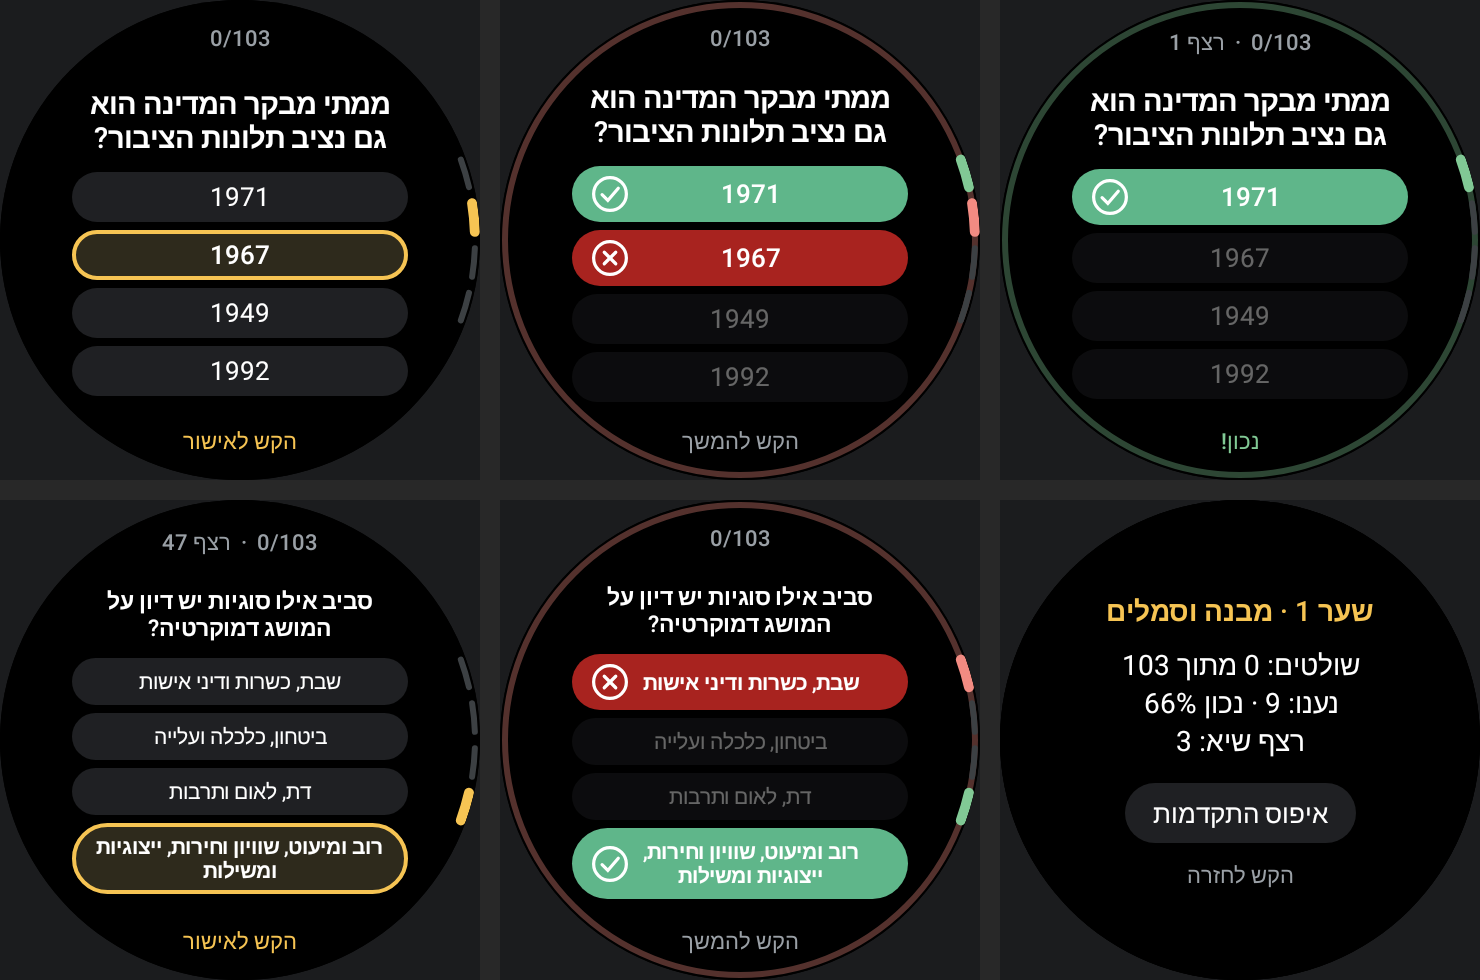
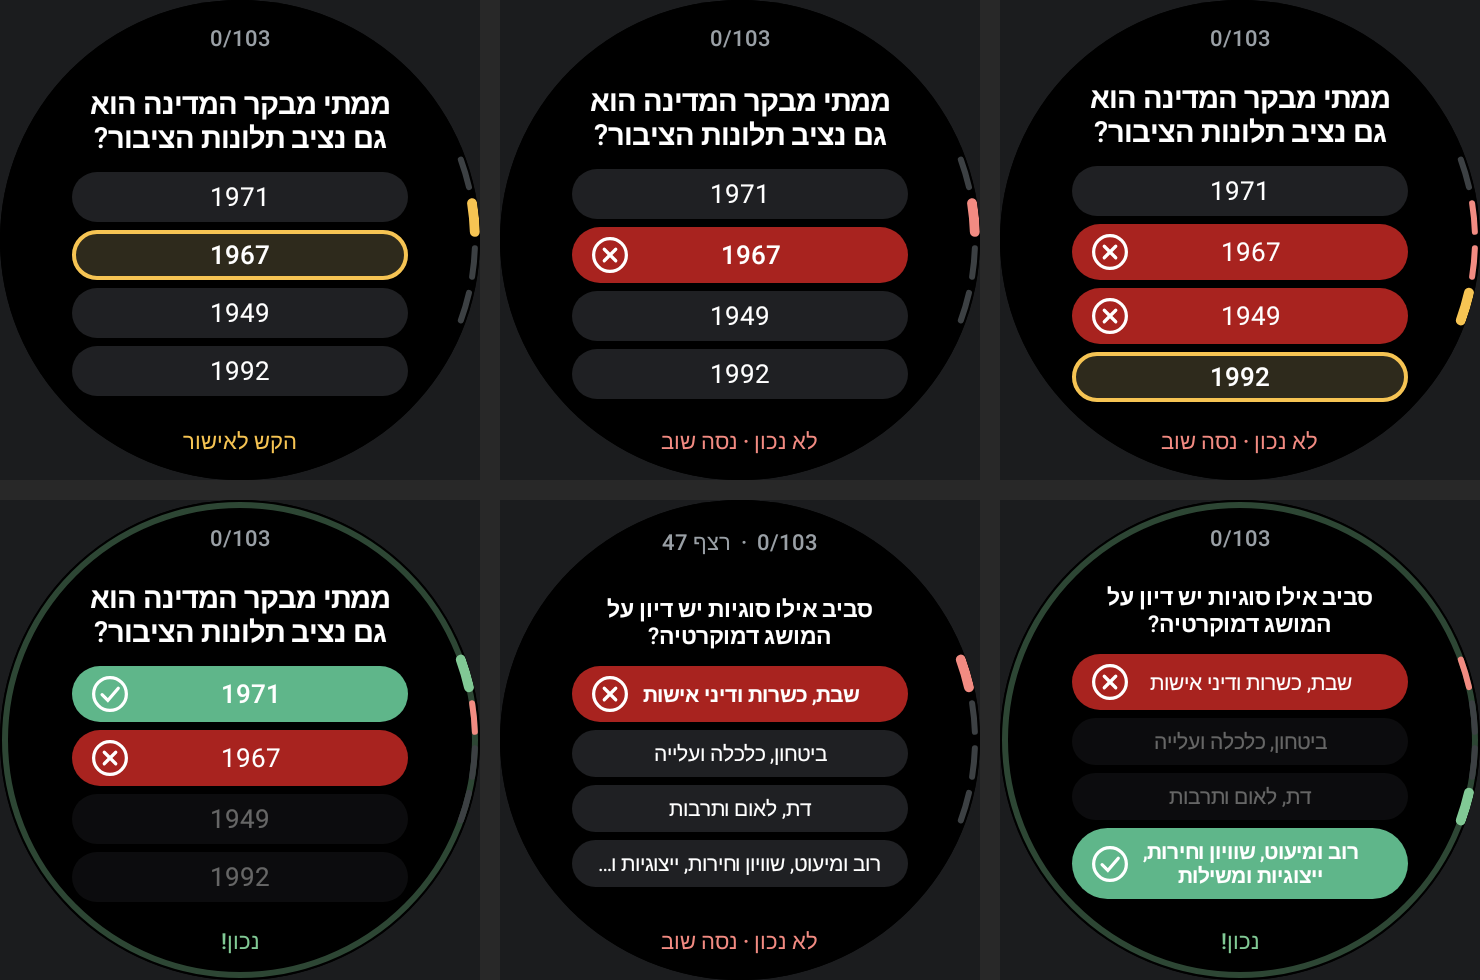
Quiz: keep the question until the right answer is picked
A wrong pick turns red and stays marked; the right answer is not revealed and
the bezel skips wrong picks. Only the right answer passes the question, and it
counts as known only when it was the first pick.

Claude-Session: https://claude.ai/code/session_012hYj7VXLh8Pt1nbMfQKyeY

diff --git a/quiz/src/main/java/com/albustech/mikraot/QuizScreen.kt b/quiz/src/main/java/com/albustech/mikraot/QuizScreen.kt
@@ -81,9 +81,9 @@ private const val AUTO_NEXT_MS = 900L
  *  - the right edge: four notches showing which answer the bezel is on;
  *  - the bottom cap: what to do next.
  *
- * Bezel: move between answers (a click each). Tap: answer with the lit one. After a wrong
- * answer the right one is shown until the next bezel click or tap; a right answer moves on
- * by itself. Long press: stats.
+ * Bezel: move between answers (a click each), skipping wrong picks. Tap: answer with the lit
+ * one. A wrong pick turns red and you pick again; only the right answer passes the question,
+ * and then it moves on by itself. Long press: stats.
  */
 @Composable
 fun QuizScreen(state: QuizState, onInteract: () -> Unit = {}) {
@@ -102,7 +102,7 @@ fun QuizScreen(state: QuizState, onInteract: () -> Unit = {}) {
             if (state.lastCorrect) HapticFeedbackConstants.CONFIRM else HapticFeedbackConstants.REJECT,
         )
         flash.snapTo(1f)
-        flash.animateTo(0.35f, tween(600))
+        flash.animateTo(if (state.lastCorrect) 0.35f else 0f, tween(600))
         if (state.lastCorrect) {
             delay(AUTO_NEXT_MS - 600)
             if (state.answered) state.next()
@@ -133,9 +133,9 @@ fun QuizScreen(state: QuizState, onInteract: () -> Unit = {}) {
         ) {
             val d = minOf(maxWidth, maxHeight)
             val verdict = when {
-                !state.answered -> null
-                state.lastCorrect -> RightRim
-                else -> WrongRim
+                state.answered -> RightRim
+                state.wrong.isNotEmpty() -> WrongRim
+                else -> null
             }
             Rim(d, state, verdict, flash.value)
             Header(d, state)
@@ -162,7 +162,7 @@ private fun Rim(d: Dp, state: QuizState, verdict: Color?, flash: Float) {
             val center = (slot - 1.5f) * NOTCH_STEP
             val color = when {
                 state.answered && state.isCorrect(slot) -> RightRim
-                state.answered && state.chosen == slot -> WrongRim
+                slot in state.wrong -> WrongRim
                 state.highlighted == slot -> Accent
                 else -> Color(0xFF3C4043)
             }
@@ -192,14 +192,15 @@ private fun Header(d: Dp, state: QuizState) {
 @Composable
 private fun Footer(d: Dp, state: QuizState) {
     val text = when {
-        state.answered && !state.lastCorrect -> "הקש להמשך"
         state.answered -> "נכון!"
+        state.wrong.isNotEmpty() -> "לא נכון · נסה שוב"
         state.highlighted != null -> "הקש לאישור"
         else -> "סובב את הבזל"
     }
     val color = when {
-        state.answered && state.lastCorrect -> RightRim
-        state.highlighted != null && !state.answered -> Accent
+        state.answered -> RightRim
+        state.wrong.isNotEmpty() -> WrongRim
+        state.highlighted != null -> Accent
         else -> Muted
     }
     CapText(text, Modifier.fillMaxWidth().offset(y = d * 0.885f), color)
@@ -248,10 +249,10 @@ private fun Body(d: Dp, state: QuizState, onInteract: () -> Unit) {
                 constraints = Constraints(maxWidth = w),
             ).size.height
             val scale = SCALES.firstOrNull { s ->
-                // Worst case: after a wrong answer two pills are open (the chosen and the right one).
+                // Worst case: the longest answer is open (lit, or right).
                 val closed = q.answers.map { h(it, ANSWER_SP * s, false, rowW, 1) }
                 val open = q.answers.map { h(it, ANSWER_SP * s, true, rowW - (MarkSize * 1.5f + 2.dp).roundToPx(), OPEN_LINES) }
-                val growth = q.answers.indices.map { open[it] - closed[it] }.sortedDescending().take(2).sum()
+                val growth = q.answers.indices.map { open[it] - closed[it] }.max()
                 val total = h(q.text, QUESTION_SP * s, true, textW, Int.MAX_VALUE) + QuestionGap.roundToPx() +
                     closed.sum() + growth + (RowPadV * 2 * 4 + RowGap * 3).roundToPx()
                 total <= height.roundToPx()
@@ -288,8 +289,8 @@ private fun Body(d: Dp, state: QuizState, onInteract: () -> Unit) {
 private fun AnswerPill(state: QuizState, slot: Int, fit: Fit, onInteract: () -> Unit) {
     val lit = state.highlighted == slot
     val right = state.answered && state.isCorrect(slot)
-    val wrong = state.answered && state.chosen == slot && !right
-    val open = lit || right || wrong
+    val wrong = slot in state.wrong
+    val open = lit || right
     val background = when {
         right -> Right
         wrong -> Wrong
@@ -300,9 +301,9 @@ private fun AnswerPill(state: QuizState, slot: Int, fit: Fit, onInteract: () -> 
     Box(
         Modifier
             .fillMaxWidth()
-            .alpha(if (state.answered && !open) 0.4f else 1f)
+            .alpha(if (state.answered && !open && !wrong) 0.4f else 1f)
             .background(background, shape)
-            .then(if (lit && !state.answered) Modifier.border(2.dp, Accent, shape) else Modifier)
+            .then(if (lit && !state.answered && !wrong) Modifier.border(2.dp, Accent, shape) else Modifier)
             .pointerInput(state, slot) {
                 detectTapGestures(
                     onTap = { onInteract(); state.tapSlot(slot) },

diff --git a/quiz/src/main/java/com/albustech/mikraot/QuizState.kt b/quiz/src/main/java/com/albustech/mikraot/QuizState.kt
@@ -8,7 +8,10 @@ import kotlin.random.Random
 
 /**
  * What the quiz screen shows: the current question, its four answers in a shuffled order
- * ("slots", top to bottom), the slot the bezel is on, and the slot that was chosen.
+ * ("slots", top to bottom), the slot the bezel is on, and the wrong picks so far.
+ *
+ * A question is only passed with its right answer: a wrong pick is marked and you pick
+ * again. It counts as known only if the first pick was right.
  */
 class QuizState(
     private val questions: List<Question>,
@@ -22,28 +25,41 @@ class QuizState(
     /** order[slot] = index into [Question.answers]; 0 is the correct answer. */
     var order by mutableStateOf(shuffledOrder()); private set
     var highlighted by mutableStateOf<Int?>(null)
+    /** The right slot, once picked. */
     var chosen by mutableStateOf<Int?>(null); private set
+
+    /** Wrong picks on this question. */
+    var wrong by mutableStateOf(emptySet<Int>()); private set
     var showStats by mutableStateOf(false)
 
-    /** Bumped on every answer so the screen can react (haptics, rim flash). */
+    /** Bumped on every pick so the screen can react (haptics, rim flash). */
     var answerCount by mutableIntStateOf(0); private set
 
     val question: Question get() = questions[index]
+    /** The right answer has been picked. */
     val answered: Boolean get() = chosen != null
-    val lastCorrect: Boolean get() = chosen?.let(::isCorrect) == true
+
+    /** The latest pick was right (after a pick; a wrong pick leaves the question open). */
+    val lastCorrect: Boolean get() = answered
 
     fun answer(slot: Int): String = question.answers[order[slot]]
     fun isCorrect(slot: Int): Boolean = order[slot] == 0
 
-    /** [detents] bezel clicks: move the highlight, wrapping. Returns false if nothing moved. */
+    /** [detents] bezel clicks: move the highlight, wrapping and skipping wrong picks. Returns false if nothing moved. */
     fun rotate(detents: Int): Boolean {
         if (detents == 0) return false
         if (answered) {
             next()
             return true
         }
-        val from = highlighted ?: if (detents > 0) -1 else SLOTS
-        highlighted = Math.floorMod(from + detents, SLOTS)
+        val open = (0 until SLOTS).filter { it !in wrong }
+        val step = if (detents > 0) 1 else -1
+        var slot = highlighted ?: if (detents > 0) -1 else SLOTS
+        repeat(Math.abs(detents)) {
+            do slot = Math.floorMod(slot + step, SLOTS) while (slot !in open)
+        }
+        if (slot == highlighted) return false
+        highlighted = slot
         return true
     }
 
@@ -51,6 +67,7 @@ class QuizState(
     fun tapSlot(slot: Int) {
         when {
             answered -> next()
+            slot in wrong -> Unit
             highlighted == slot -> choose(slot)
             else -> highlighted = slot
         }
@@ -65,12 +82,16 @@ class QuizState(
     }
 
     fun choose(slot: Int) {
-        if (answered) return
-        chosen = slot
+        if (answered || slot in wrong) return
         highlighted = slot
-        progress.record(index, isCorrect(slot), random)
+        if (isCorrect(slot)) {
+            chosen = slot
+            progress.record(index, wrong.isEmpty(), random)
+            save(progress)
+        } else {
+            wrong = wrong + slot
+        }
         answerCount++
-        save(progress)
     }
 
     fun next() {
@@ -78,6 +99,7 @@ class QuizState(
         order = shuffledOrder()
         highlighted = null
         chosen = null
+        wrong = emptySet()
     }
 
     fun reset() {

diff --git a/quiz/src/test/java/com/albustech/mikraot/QuizStateTest.kt b/quiz/src/test/java/com/albustech/mikraot/QuizStateTest.kt
@@ -37,11 +37,12 @@ class QuizStateTest {
     @Test
     fun tapOnASlotLightsItThenAnswers() {
         val s = state()
-        s.tapSlot(2)
+        val right = (0 until 4).first { s.isCorrect(it) }
+        s.tapSlot(right)
         assertFalse(s.answered)
-        s.tapSlot(2)
+        s.tapSlot(right)
         assertTrue(s.answered)
-        assertEquals(2, s.chosen)
+        assertEquals(right, s.chosen)
     }
 
     @Test
@@ -56,15 +57,46 @@ class QuizStateTest {
     }
 
     @Test
-    fun bezelAfterAnAnswerMovesOn() {
+    fun aWrongPickKeepsTheQuestionUntilTheRightOne() {
         val s = state()
-        val wrong = (0 until 4).first { !s.isCorrect(it) }
         val first = s.question
-        s.tapSlot(wrong); s.tapSlot(wrong)
-        assertFalse(s.lastCorrect)
-        s.rotate(1)
+        val wrongs = (0 until 4).filter { !s.isCorrect(it) }
+        s.tapSlot(wrongs[0]); s.tapSlot(wrongs[0])
         assertFalse(s.answered)
-        assertNull(s.highlighted)
+        assertEquals(setOf(wrongs[0]), s.wrong)
+        s.rotate(1) // the bezel does not skip the question
+        assertTrue(first === s.question)
+        s.choose(wrongs[1])
+        assertEquals(0, s.progress.answered)
+        val right = (0 until 4).first { s.isCorrect(it) }
+        s.choose(right)
+        assertTrue(s.answered)
+        // Passed, but not on the first pick: it counts as a miss.
+        assertEquals(1, s.progress.answered)
+        assertEquals(0, s.progress.correct)
+        s.rotate(1)
         assertTrue(first !== s.question)
+        assertTrue(s.wrong.isEmpty())
+    }
+
+    @Test
+    fun bezelSkipsWrongPicks() {
+        val s = state()
+        val wrongs = (0 until 4).filter { !s.isCorrect(it) }
+        wrongs.forEach(s::choose)
+        s.highlighted = null
+        s.rotate(1)
+        assertTrue(s.isCorrect(s.highlighted!!))
+        assertFalse(s.rotate(1)) // only one answer left to light
+    }
+
+    @Test
+    fun tappingAWrongPickAgainDoesNothing() {
+        val s = state()
+        val w = (0 until 4).first { !s.isCorrect(it) }
+        s.choose(w)
+        s.tapSlot(w); s.tapBackground()
+        assertEquals(setOf(w), s.wrong)
+        assertFalse(s.answered)
     }
 }

diff --git a/quiz/src/test/java/com/albustech/mikraot/ScreenshotTest.kt b/quiz/src/test/java/com/albustech/mikraot/ScreenshotTest.kt
@@ -50,6 +50,17 @@ abstract class ScreenshotTest(private val tag: String) {
 
     @Test fun wrong() = shot("3_wrong", state().apply { choose((0 until 4).first { !isCorrect(it) }) })
 
+    @Test fun wrongThenLit() = shot("3b_wrong_then_lit", state().apply {
+        val w = (0 until 4).filter { !isCorrect(it) }
+        choose(w[0]); choose(w[1])
+        rotate(1)
+    })
+
+    @Test fun wrongThenRight() = shot("3c_wrong_then_right", state().apply {
+        choose((0 until 4).first { !isCorrect(it) })
+        choose((0 until 4).first { isCorrect(it) })
+    })
+
     @Test fun right() = shot("4_right", state().apply { choose((0 until 4).first { isCorrect(it) }) })
 
     @Test fun longestLit() = shot("5_longest_lit", state(longest).apply {
@@ -61,8 +72,16 @@ abstract class ScreenshotTest(private val tag: String) {
         choose((0 until 4).filter { !isCorrect(it) }.maxBy { answer(it).length })
     })
 
+    @Test fun longestRight() = shot("6b_longest_right", state(longest).apply {
+        choose((0 until 4).filter { !isCorrect(it) }.maxBy { answer(it).length })
+        choose((0 until 4).first { isCorrect(it) })
+    })
+
     @Test fun stats() = shot("7_stats", state().apply {
-        repeat(9) { choose((0 until 4).first { s -> it % 4 != 0 == isCorrect(s) }); next() }
+        repeat(9) {
+            if (it % 4 == 0) choose((0 until 4).first { s -> !isCorrect(s) })
+            choose((0 until 4).first(::isCorrect)); next()
+        }
         showStats = true
     })
 }

diff --git a/quiz/README.md b/quiz/README.md
@@ -6,7 +6,7 @@ An endless multiple-choice quiz for the round watch, made to practise the first 
 
 ## How it fits the circle
 
-![Screens at 480 px: answer lit, wrong, right, longest question, stats](screens.png)
+![Screens at 480 px: answer lit, wrong pick, two wrong picks and the bezel on the last answer, right after a miss, a long question](screens.png)
 
 ```
          ╭──────── 37/103 · רצף 4 ────────╮     top cap: mastered / total, streak
@@ -21,19 +21,21 @@ An endless multiple-choice quiz for the round watch, made to practise the first 
 - **Bezel**: one click moves to the next answer (wraps around). After answering, a click
   moves to the next question.
 - **Tap**: confirms the lit answer. Tapping a pill lights it; tapping it again answers.
-- **Right**: green rim and pill, a confirm buzz, and the next question after a moment.
-- **Wrong**: your pick turns red and the right answer green. It stays until you tap or turn,
-  so you can read it.
+- **Wrong**: your pick turns red with an ✗ and a buzz, and you pick again. The right answer is
+  not revealed, and the bezel skips the answers already marked wrong.
+- **Right**: the pill turns green with a ✓, and the next question comes after a moment (or
+  at once with a tap or a bezel click). Only the right answer passes a question.
 - **Long press**: stats (mastered, accuracy, best streak) and a two-tap reset.
 
 Text is sized once per question so that the worst case still fits: the question plus all four
-answers with two of them open (yours and the right one). Long questions get smaller text
+answers with the longest one open. Long questions get smaller text
 instead of being cut off.
 
 ## Learning loop
 
-Each round asks every question once, with the ones not yet mastered first. A miss returns
-after three other questions. Two right answers in a row mark a question as mastered. Progress
+Each round asks every question once, with the ones not yet mastered first. A question
+counts as right only if the first pick was right; otherwise it returns after three other
+questions. Two right answers in a row mark a question as mastered. Progress
 is saved after every answer.
 
 ## Questions
